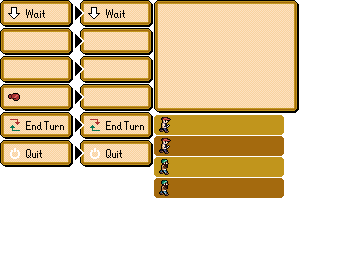
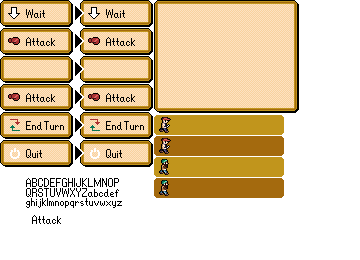
attack button
attack button gets displayed if the unit has any other unit around.

diff --git a/Project/Motor2D/M_Gui.cpp b/Project/Motor2D/M_Gui.cpp
@@ -56,6 +56,19 @@ bool Gui::Awake(pugi::xml_node& conf)
 
 	CreateButton(0, 0, temp, temp2, WAIT, COMMAND_MENU, App->entities, true);
 
+	//ATTACK BUTTON
+	temp.x = conf.child("command").child("buttons").child("attack").child("idle").attribute("x").as_int();
+	temp.y = conf.child("command").child("buttons").child("attack").child("idle").attribute("y").as_int();
+	temp.w = conf.child("command").child("buttons").child("attack").child("idle").attribute("w").as_int();
+	temp.h = conf.child("command").child("buttons").child("attack").child("idle").attribute("h").as_int();
+
+	temp2.x = conf.child("command").child("buttons").child("attack").child("selected").attribute("x").as_int();
+	temp2.y = conf.child("command").child("buttons").child("attack").child("selected").attribute("y").as_int();
+	temp2.w = conf.child("command").child("buttons").child("attack").child("selected").attribute("w").as_int();
+	temp2.h = conf.child("command").child("buttons").child("attack").child("selected").attribute("h").as_int();
+
+	CreateButton(0, 0, temp, temp2, ATTACK, COMMAND_MENU, App->entities, true);
+
 	//QUIT BUTTON
 	temp.x = conf.child("ingame_options").child("buttons").child("quit").child("idle").attribute("x").as_int();
 	temp.y = conf.child("ingame_options").child("buttons").child("quit").child("idle").attribute("y").as_int();
@@ -220,7 +233,35 @@ void Gui::ActivateMenu(menu_type mtype)
 				{
 					GuiButton* button = (GuiButton*)item->data;
 
-					if (button->mtype == COMMAND_MENU)
+					if (button->btype == ATTACK)
+					{
+						Unit* unit = (Unit*)App->player->selected_unit;
+
+						if (unit->targets.start != NULL)
+						{
+							button->active = true;
+							active_buttons.add(button);
+
+							if (active_elements == 0)
+							{
+								selected_button = button;
+							}
+							active_elements++;
+						}
+					}
+				}
+				item = item->next;
+			}
+
+			item = elements.start;
+
+			while (item != NULL)
+			{
+				if (item->data->etype == BUTTON)
+				{
+					GuiButton* button = (GuiButton*)item->data;
+
+					if (button->btype == WAIT)
 					{
 						button->active = true;
 						active_buttons.add(button);
@@ -234,6 +275,7 @@ void Gui::ActivateMenu(menu_type mtype)
 				}
 				item = item->next;
 			}
+
 			UpdateActiveButtonsPosition();
 			state = GUI_COMMAND;
 			break;

diff --git a/Project/Motor2D/Infantry.cpp b/Project/Motor2D/Infantry.cpp
@@ -12,6 +12,7 @@
 #include "M_Gui.h"
 #include "GuiElement.h"
 #include "M_Input.h"
+#include "M_EntityManager.h"
 
 Infantry::Infantry() : Unit()
 {
@@ -252,6 +253,8 @@ bool Infantry::OnWait()
 	state = WAITING_TURN;
 	prev_position = position;
 
+	ClearTargets();
+
 	if (entity_army == CANI)
 		direction = RIGHT;
 	else if (entity_army == HIPSTER)
@@ -363,10 +366,48 @@ void Infantry::Move(float dt)
 
 	if (position == goal)
 	{
+		SearchTargets();
 		state = WAITING_COMMAND;
 		App->input->state = UI_INPUT;
 		App->gui->ActivateMenu(COMMAND_MENU);
 	}
+}
+
+void Infantry::SearchTargets()
+{
+	for (p2List_item<Unit*>* unit = App->entities->units.start; unit; unit = unit->next)
+	{
+		if (unit->data->position.x == position.x && unit->data->position.y == position.y - 1)//north
+		{
+			targets.add(unit->data);
+		}
+	}
+	for (p2List_item<Unit*>* unit = App->entities->units.start; unit; unit = unit->next)
+	{
+		if (unit->data->position.x == position.x + 1 && unit->data->position.y == position.y)//east
+		{
+			targets.add(unit->data);
+		}
+	}
+	for (p2List_item<Unit*>* unit = App->entities->units.start; unit; unit = unit->next)
+	{
+		if (unit->data->position.x == position.x && unit->data->position.y == position.y + 1)//south
+		{
+			targets.add(unit->data);
+		}
+	}
+	for (p2List_item<Unit*>* unit = App->entities->units.start; unit; unit = unit->next)
+	{
+		if (unit->data->position.x == position.x - 1 && unit->data->position.y == position.y)//west
+		{
+			targets.add(unit->data);
+		}
+	}
+}
+
+void Infantry::ClearTargets()
+{
+	targets.clear();
 }
 
 void Infantry::CancelAction()
@@ -375,6 +416,8 @@ void Infantry::CancelAction()
 	current_moving_position.x = position.x * 16;
 	current_moving_position.y = position.y * 16;
 	state = SELECTED;
+
+	ClearTargets();
 
 	App->map->ResetBFS(position);
 	App->map->PropagateBFS(this);

diff --git a/Project/Motor2D/Infantry.h b/Project/Motor2D/Infantry.h
@@ -41,9 +41,11 @@ public:
 	void						GetPath(iPoint goal);
 	void						Move(float dt);
 
+	void						SearchTargets();
+	void						ClearTargets();
+
 	void						CancelAction();
 
 public:
-
 
 };

diff --git a/Project/Motor2D/Unit.h b/Project/Motor2D/Unit.h
@@ -86,6 +86,8 @@ public:
 
 public:
 
+	p2List<Unit*>		targets;
+
 	unit_direction		direction;
 	unit_type			unit_type;
 	uint				move_range;

diff --git a/Project/Motor2D/GuiElement.h b/Project/Motor2D/GuiElement.h
@@ -20,6 +20,7 @@ enum element_type
 enum button_type
 {
 	WAIT,
+	ATTACK,
 	QUIT,
 	END_TURN,
 	BUY_CANI_INFANTRY,
